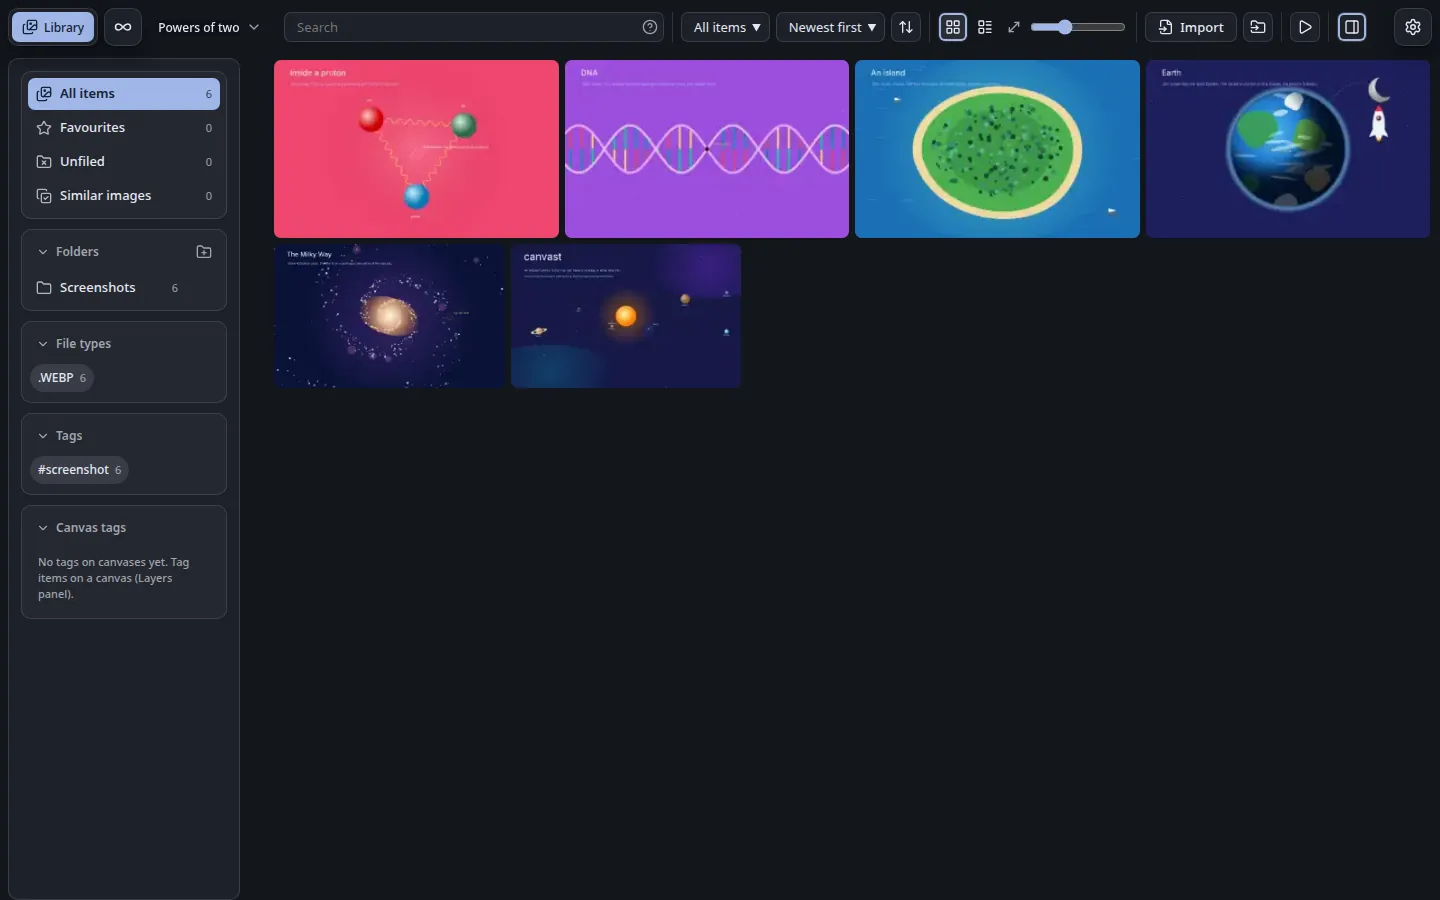
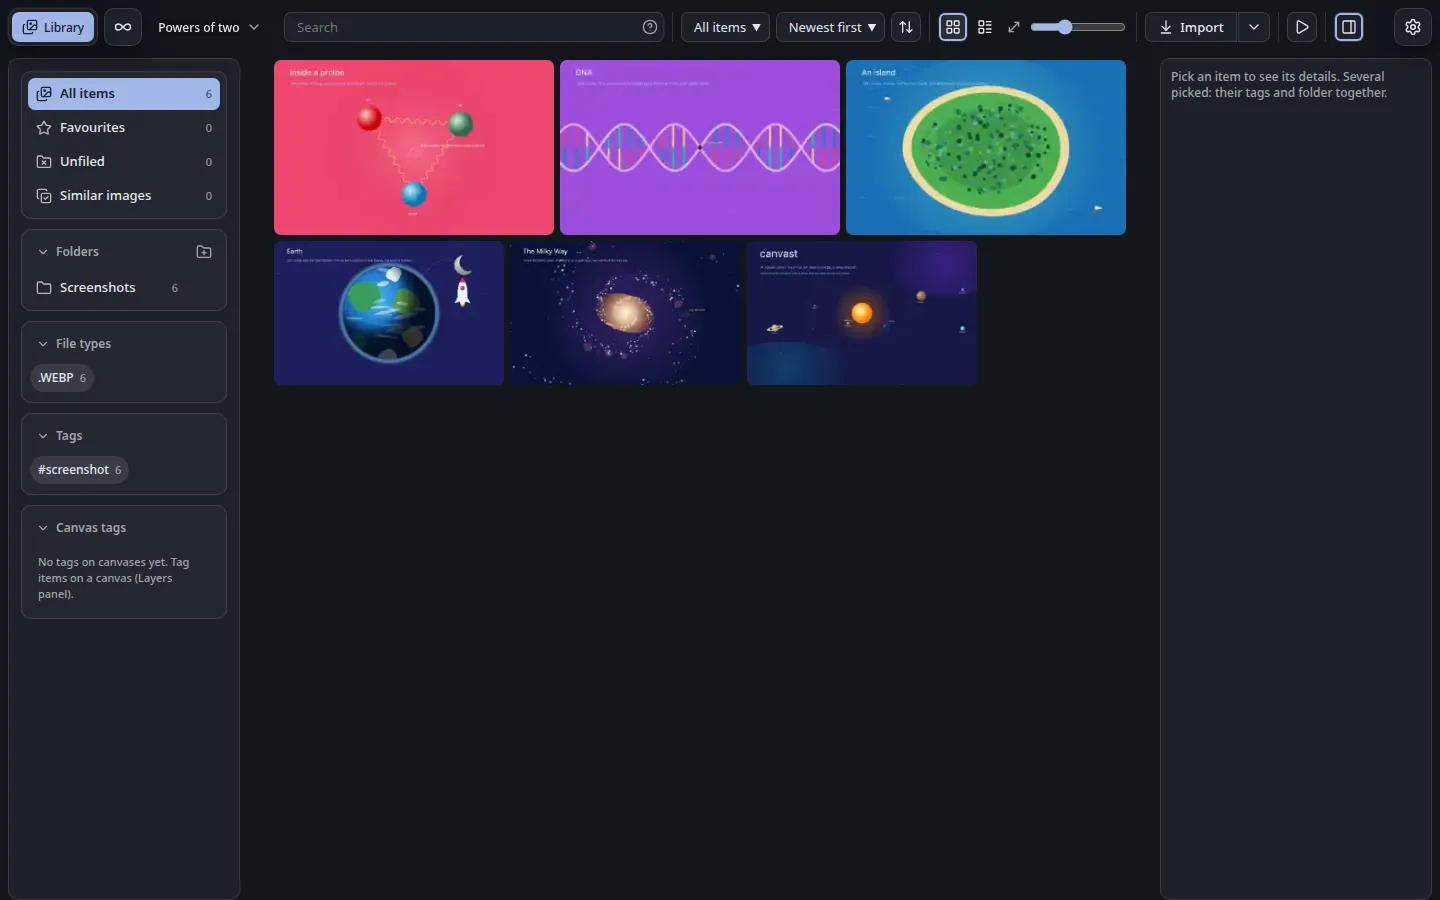
docs: refreshed screenshots (interface and dive), shortcut table and library notes brought up to date, changelog for 0.43.2 to 0.45.3 (v0.46.0)

diff --git a/README.md b/README.md
@@ -149,7 +149,7 @@ A small read-out shows the zoom level and position. Click it, type a level (`300
 - **Media player:** videos, audio and animated GIFs play on the canvas with a player right under the item. It has play and pause, a seek bar, step back and forward (seconds for video and audio, frames for GIFs), repeat, playback speed, volume, a waveform for audio, and a start and end to play only part of a file. The paused frame is saved. Playback continues when the item scrolls out of view.
 - **Extract frame** turns the current frame of a video or GIF into a picture in the library (PNG, WebP or JPEG). Settings name it, file it in a folder and tag it, optionally placing it on the canvas.
 - **File details:** EXIF, colour profile and codec information are shown. STL and OBJ 3D models and PDFs are kept as cards with a preview; any other file is kept as a card with its extension and can be downloaded again.
-- **Import** by button, drag and drop, paste, or a whole folder. Files up to 256 MiB are accepted and decoded before being stored.
+- **Import** by button (in the Library the Import button has a menu for files or for a whole folder), drag and drop, paste, or a whole folder. Files up to 256 MiB are accepted and decoded before being stored.
 
 ### Organizing
 
@@ -189,7 +189,7 @@ Switch between **Canvas** and **Library** at the top left. The canvas keeps its 
 - A gallery of every imported file with its size, type and usage ("4 uses · 3 canvases"), with search, filters by file type, sorting, list or grid layouts and adjustable thumbnails.
 - A **viewer** with filmstrip, zoom, pan, slideshow and a details panel. The details show where an item is used, and **Show** takes you to it on the canvas at any depth. A button switches the background behind the picture, the controls can be hidden, and a double tap opens it on phones.
 - **Folders** (an item lives in one folder, folders nest), **tags** (several per item, renamable), **favourites**, file types, **Similar images** (duplicates and near-duplicates found by their pixels) and **Hidden** items, which are kept out of every list until you open them (see [Hidden items and passwords](#hidden-items-and-passwords)).
-- **Picking and the details panel:** a click picks an item; the details panel is opened and closed with its button (or `I`) and, while open, shows what is picked (several: their tags and folder together), so a click never moves the grid under the pointer. When the grid is laid out again (the panel toggled, the window or the thumbnails resized), the picked item stays where it is on the screen. `Ctrl+A` picks all shown; a plain click then picks one alone (`Ctrl`+click adds or removes; on a touch screen, a tap adds or removes). Picked items a search or filter hides are counted in the panel, with a button to keep only the shown.
+- **Picking and the details panel:** a click picks an item; the details panel is opened and closed with its button (or `I`) and, while open, shows what is picked (several: their tags and folder together), so a click never moves the grid under the pointer. When the grid is laid out again (the panel toggled, the window or the thumbnails resized), the picked item stays where it is on the screen. `Ctrl+A` picks all shown; a plain click then picks one alone (`Ctrl`+click adds or removes; on a touch screen, a tap adds or removes). Picked items a search or filter hides are counted in the panel, with a button to keep only the shown. The *Details* fold (the file's own metadata) stays open or closed as you left it when you pick another item.
 - **Drag items onto the sidebar:** onto a folder to move them into it, onto *Unfiled* to take them out of their folders, onto a tag to tag them, onto *Favourites* to mark them; a picked item carries the whole pick.
 - **Undo in the library:** `Ctrl+Z` undoes the last change to tags, favourites, folders or names (`Ctrl+Shift+Z` or `Ctrl+Y` redoes), up to 50 steps; deleting from the library has its own safety (originals are kept while undo on a canvas can need them).
 - **Tags and folders of several items at once:** with several picked, the details panel lists every tag any of them has, with how many have it (*2/4*); **×** takes a tag off all of them and **+** puts it on the rest. The tag field suggests the library's tags and takes several at once, separated by commas. Each folder shows how many of them it holds (a mixed pick has none ticked), and *New folder for these…* makes one and moves them into it. Changes to hundreds of items are one write, so they take a moment, not minutes.
@@ -271,9 +271,14 @@ Every shortcut can be changed in **Settings → Shortcuts**: a single key or a c
 | Copy · cut · paste · duplicate | `Ctrl/⌘+C` · `X` · `V` · `D` |
 | Select all · clear · cancel a gesture | `Ctrl/⌘+A` · `Esc` |
 | Delete | `Delete` · `Backspace` |
+| Group · ungroup | `Ctrl/⌘+G` · `Ctrl/⌘+Shift+G` |
+| Put the selection on a sheet · flatten | `Ctrl+Alt+G` · `Ctrl/⌘+E` (text to paths, a boolean group to one path) |
+| Bring to front · send to back | `Ctrl/⌘+]` · `Ctrl/⌘+[` |
+| Bookmarks | `[` previous · `]` next · `Alt+1` … `Alt+9` go to bookmark 1 to 9 |
+| Previous view · next view | `Alt+Shift+←` · `Alt+Shift+→` |
 | Command palette | `Ctrl/⌘+K` (`@kind` narrows it; commands can take a value; macros record and replay) |
 | Context menu | Right-click the canvas |
-| Search | `Ctrl+F` (library: `Ctrl+Shift+F`) |
+| Search | `Ctrl+F` (library: `Ctrl+Shift+F`); on the canvas `#` searches tags, `@` bookmarks, `/` is the command palette and `?` the shortcut list |
 | Focus on selection · fit everything | `F` · `F` again |
 | Step to next item | `W` `A` `S` `D` |
 | Zen mode | `Z` (bars fade out until the pointer is over them) |

diff --git a/CHANGELOG.md b/CHANGELOG.md
@@ -9,6 +9,20 @@
 - **Fixed:** the pressed Hide button used the star yellow; it uses the theme accent.
 - **Fixed:** the library's Details fold could reopen on the next item after you closed it, when you picked the next item quickly.
 
+## 0.45.0 to 0.45.3 — One context menu, and copying out (2026-10-26)
+
+- **Added:** one context menu for every view (canvas, library, Settings): a right click, the menu key or a long touch opens the commands that fit; the library has *Copy*, *Copy file name* and *Paste* with the system clipboard.
+- **Fixed:** *Copy* puts the picture alone on the clipboard (a name beside it was pasted instead by many programs); *Copy file name* puts the name; one writer serves every copy out; `Ctrl`+`C` copies the picture in Firefox too (the picture is made before it is written); the SVG text of a shape is its own command.
+
+## 0.44.0 to 0.44.7 — Reveal, renaming and small polish (2026-10-26)
+
+- **Added:** `Ctrl`+drag from inside a picked thing moves it, whatever covers it; the names beside the pointer are a list to pick from (it stays put while you reach it).
+- **Changed:** renaming one library item edits the name without its extension; the Details fold stays as you left it; every text field shows its caret and selection in the accent; interface text is not selectable by accident (fields, code and file facts are); a notice stays as long as its words need.
+
+## 0.43.2 to 0.43.4 — Library details and import (2026-10-26)
+
+- **Changed:** the details panel reads in one flow (one Details block, tags and folder in one card); one Import button with a menu for files or a folder.
+
 ## 0.43.1 — Varied fills deep in, without the stall (2026-10-26)
 
 - **Fixed:** zooming into a shape with a varied fill, where its copies are drawn one by one, took seconds a step on a high-density screen (about 6 s at twice the pixels): every tile of the view drew all the copies in view again. They are now drawn once a frame and shared by the tiles (about 0.4 s a step in the same test).
